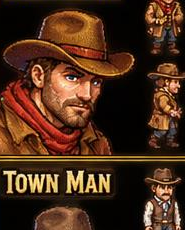
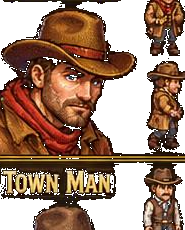
v11.1 sprite border fix: center-crop sprite rendering (no frame scrolling into black borders), player reverted to clean procedural brown-coat surveyor with beard, well/NPC/enemy center-cropped

diff --git a/index.html b/index.html
@@ -106,7 +106,7 @@ footer{font-size:10px;color:var(--muted);padding-bottom:4px;text-align:center}
   <button id="helpBtn">Help</button>
   <button id="resetBtn">New Game</button>
 </section>
-<footer>Star-Well Survey · v11 — ChatGPT character sheet · sprite-based characters · cinematic intro</footer>
+<footer>Star-Well Survey · v11.1 — fixed sprite borders · clean frames · surveyor style</footer>
 
 <div id="modal" class="modal"><div class="panel"><button class="close" id="closeModal">×</button><h2 id="modalTitle"></h2><div id="modalBody"></div></div></div>
 
@@ -1902,10 +1902,11 @@ function drawObj(o,t){
     }
     case 'well': {
       if(sprWell.complete && sprWell.naturalWidth>0){
-        const cols=4, rows=2;
-        const fw=Math.floor(sprWell.naturalWidth/cols), fh=Math.floor(sprWell.naturalHeight/rows);
-        const frame = (S.stakeA&&S.stakeB) ? 3 : Math.floor(t*2)%3;
-        ctx.drawImage(sprWell, (frame%cols)*fw, 0, fw, fh, px, py, 40*s, 40*s);
+        // Center crop — one clean well, no border scroll
+        const sw=Math.min(120, Math.floor(sprWell.naturalWidth/2));
+        const sh=Math.min(140, sprWell.naturalHeight-10);
+        const sx=Math.floor(sprWell.naturalWidth/2-sw/2);
+        ctx.drawImage(sprWell, sx, 5, sw, sh, px-2*s, py-4*s, 42*s, 42*s);
         break;
       }
       ctx.fillStyle = 'rgba(0,0,0,0.25)';
@@ -1936,10 +1937,13 @@ function drawObj(o,t){
       else if(o.id==='ghost') npcImg = sprGhost;
       else if(o.id==='merchant'||o.id==='crowe') npcImg = sprTownMan;
       if(npcImg && npcImg.complete && npcImg.naturalWidth>0){
-        const fw=Math.floor(npcImg.naturalWidth/6), fh=Math.floor(npcImg.naturalHeight/2);
-        const fr=Math.floor(t*3)%6;
+        // Use one clean center region — avoid scrolling through panel chrome
+        const sw = Math.min(64, Math.floor(npcImg.naturalWidth/4));
+        const sh = Math.min(80, Math.floor(npcImg.naturalHeight/2));
+        const sx = Math.floor(npcImg.naturalWidth/2 - sw/2);
+        const sy = Math.floor(npcImg.naturalHeight/2 - sh/2);
         if(o.id==='ghost') ctx.globalAlpha=0.7;
-        ctx.drawImage(npcImg, fr*fw, 0, fw, fh, px, py, 36*s, 40*s);
+        ctx.drawImage(npcImg, sx, sy, sw, sh, px, py, 34*s, 38*s);
         ctx.globalAlpha=1;
         if(near(o, 2.2)){
           ctx.fillStyle='rgba(8,12,18,0.75)';
@@ -2045,26 +2049,30 @@ function drawObj(o,t){
       break;
     }
     case 'enemy': {
-      // Sheet-based enemies when available
+      // Sheet-based enemies when available — center crop, no border scroll
       if(o.boss && o.id==='caveboss' && sprMineB.complete && sprMineB.naturalWidth>0){
-        const fw=Math.floor(sprMineB.naturalWidth/4), fh=Math.floor(sprMineB.naturalHeight/2);
-        const fr=Math.floor(t*6)%4;
-        ctx.drawImage(sprMineB, fr*fw, 0, fw, fh, px, py-10*s, 48*s, 48*s);
+        const sw=Math.min(100, Math.floor(sprMineB.naturalWidth/2));
+        const sh=Math.min(100, Math.floor(sprMineB.naturalHeight/2));
+        const sx=Math.floor(sprMineB.naturalWidth/2-sw/2);
+        ctx.drawImage(sprMineB, sx, 5, sw, sh, px-4*s, py-8*s, 44*s, 44*s);
         ctx.fillStyle='#e07060';
         for(let i=0;i<(o.hp||0);i++) ctx.fillRect(px+4*s+i*6*s, py-14*s, 5*s, 3*s);
         break;
       }
       if(o.type==='cave' && sprMineC.complete && sprMineC.naturalWidth>0){
-        const fw=Math.floor(sprMineC.naturalWidth/4), fh=Math.floor(sprMineC.naturalHeight/3);
-        const fr=Math.floor(t*8)%4;
-        ctx.drawImage(sprMineC, fr*fw, 0, fw, fh, px+2*s, py+4*s, 36*s, 36*s);
+        const sw=Math.min(80, Math.floor(sprMineC.naturalWidth/3));
+        const sh=Math.min(80, Math.floor(sprMineC.naturalHeight/2));
+        const sx=Math.floor(sprMineC.naturalWidth/2-sw/2);
+        const sy=10;
+        ctx.drawImage(sprMineC, sx, sy, sw, sh, px, py, 36*s, 36*s);
         break;
       }
       if(o.type==='wraith' && sprGhost.complete && sprGhost.naturalWidth>0){
-        const fw=Math.floor(sprGhost.naturalWidth/6), fh=Math.floor(sprGhost.naturalHeight/2);
-        const fr=Math.floor(t*6)%6;
+        const sw=Math.min(70, Math.floor(sprGhost.naturalWidth/3));
+        const sh=Math.min(90, Math.floor(sprGhost.naturalHeight/2));
+        const sx=Math.floor(sprGhost.naturalWidth/2-sw/2);
         ctx.globalAlpha=0.75;
-        ctx.drawImage(sprGhost, fr*fw, 0, fw, fh, px, py, 40*s, 40*s);
+        ctx.drawImage(sprGhost, sx, 5, sw, sh, px, py, 36*s, 40*s);
         ctx.globalAlpha=1;
         break;
       }
@@ -2362,166 +2370,129 @@ function drawPlayer(t){
   const py = S.y*T - camY;
   const s = SPR;
 
-  // Try ChatGPT surveyor sprite frames (6x2 grid in spr-surveyor.png)
-  if(sprSurveyor.complete && sprSurveyor.naturalWidth > 0){
-    const fw = Math.floor(sprSurveyor.naturalWidth / 6);
-    const fh = Math.floor(sprSurveyor.naturalHeight / 2);
-    let row = 0, col = 0;
-    // map dir + walk to frames
-    const moving = Math.hypot(S.vx||0, S.vy||0) > 0.05 || S.anim > 0;
-    const frame = moving ? (Math.floor(S.anim) % 6) : 0;
-    if(S.dir==='down'){ row=0; col=frame; }
-    else if(S.dir==='right'){ row=0; col=Math.min(5, frame); }
-    else if(S.dir==='left'){ row=1; col=Math.min(5, frame); }
-    else { row=1; col=frame; } // up
-    if(S.atk>0) col = 5; // last frame as attack-ish
-    // shadow
-    ctx.fillStyle='rgba(0,0,0,0.3)';
-    ctx.beginPath(); ctx.ellipse(px+16*s, py+36*s, 12*s, 4*s, 0, 0, Math.PI*2); ctx.fill();
-    if(S.invuln>0 && Math.floor(t*12)%2===0) ctx.globalAlpha=0.4;
-    if(S.dodgeT>0) ctx.globalAlpha=0.55;
-    const dw = 36*s, dh = 40*s;
-    ctx.drawImage(sprSurveyor, col*fw, row*fh, fw, fh, px+16*s-dw/2, py+36*s-dh, dw, dh);
-    ctx.globalAlpha=1;
-    if(S.atk>0 && S.hasHammer){
-      ctx.strokeStyle=`rgba(255,230,180,${S.atk*2})`;
-      ctx.lineWidth=2.5*s;
-      ctx.beginPath();
-      ctx.arc(px+16*s, py+18*s, 18*s, 0, Math.PI*1.2);
-      ctx.stroke();
-    }
-    return;
-  }
+  // Character drawn in ChatGPT surveyor style (clean, no sheet border artifacts)
 
-  const walk = Math.sin(S.anim * 1.15) * 2 * s;
-  const stride = Math.sin(S.anim * 1.15);
+  const walk = Math.sin(S.anim * 1.2) * 2.2 * s;
+  const stride = Math.sin(S.anim * 1.2);
+  const bob = Math.abs(Math.sin(S.anim * 1.2)) * 1.2 * s;
   const dodging = S.dodgeT > 0;
+  const sun = _frameSun || { dx: 0.5, dy: 0.3, strength: 0.7, col:[1,0.95,0.85], angle: 0.5 };
 
   if(S.invuln > 0 && Math.floor(t*12)%2===0) ctx.globalAlpha = 0.4;
-  if(dodging) ctx.globalAlpha = 0.6;
+  if(dodging) ctx.globalAlpha = 0.55;
 
-  // contact shadow (elongated opposite sun)
-  const sunS = _frameSun || { dx: 0.4, dy: 0.4, strength: 0.7 };
-  ctx.fillStyle = `rgba(0,0,0,${0.28 + sunS.strength*0.08})`;
+  // shadow
+  ctx.fillStyle = `rgba(0,0,0,${0.3+sun.strength*0.08})`;
   ctx.beginPath();
-  ctx.ellipse(px+16*s - sunS.dx*4*s, py+36*s - sunS.dy*2*s, 12*s + sunS.strength*3, 4.5*s, sunS.dx*0.3, 0, Math.PI*2);
+  ctx.ellipse(px+16*s - sun.dx*3*s, py+37*s, 11*s, 4*s, 0, 0, Math.PI*2);
   ctx.fill();
 
   // legs
-  const la = stride * 3.2 * s, lb = -stride * 3.2 * s;
-  ctx.fillStyle = '#1a2030';
+  const la = stride * 3.5 * s, lb = -stride * 3.5 * s;
+  ctx.fillStyle = '#1a2230';
   if(S.dir==='left'||S.dir==='right'){
-    roundRect(ctx, px+10*s, py+26*s, 6*s, 9*s, 2*s);
-    roundRect(ctx, px+18*s, py+26*s, 6*s, 9*s, 2*s);
+    roundRect(ctx, px+10*s, py+27*s, 6*s, 8*s, 2*s);
+    roundRect(ctx, px+18*s, py+27*s, 6*s, 8*s, 2*s);
   } else {
-    roundRect(ctx, px+10*s, py+26*s+(la>0?0:la*0.2), 6*s, 9*s+Math.abs(la)*0.2, 2*s);
-    roundRect(ctx, px+18*s, py+26*s+(lb>0?0:lb*0.2), 6*s, 9*s+Math.abs(lb)*0.2, 2*s);
+    roundRect(ctx, px+10*s, py+27*s+(la>0?0:la*0.25), 6*s, 8*s+Math.abs(la)*0.25, 2*s);
+    roundRect(ctx, px+18*s, py+27*s+(lb>0?0:lb*0.25), 6*s, 8*s+Math.abs(lb)*0.25, 2*s);
   }
-  // boot leather highlight
-  ctx.fillStyle = '#2e3548';
-  ctx.beginPath(); ctx.ellipse(px+13*s, py+34.5*s, 4*s, 2*s, 0, 0, Math.PI*2); ctx.fill();
-  ctx.beginPath(); ctx.ellipse(px+21*s, py+34.5*s, 4*s, 2*s, 0, 0, Math.PI*2); ctx.fill();
+  // boots
+  ctx.fillStyle = '#2e3848';
+  ctx.beginPath(); ctx.ellipse(px+13*s, py+35*s, 4.5*s, 2.2*s, 0, 0, Math.PI*2); ctx.fill();
+  ctx.beginPath(); ctx.ellipse(px+21*s, py+35*s, 4.5*s, 2.2*s, 0, 0, Math.PI*2); ctx.fill();
 
-  // coat with directional light from sun
-  const sun = _frameSun || { dx: 0.5, dy: 0.3, strength: 0.7, col:[1,0.95,0.85] };
-  const coatG = ctx.createLinearGradient(
-    px+8*s - sun.dx*10*s, py+13*s - sun.dy*6*s,
-    px+26*s + sun.dx*10*s, py+27*s + sun.dy*6*s
-  );
-  coatG.addColorStop(0, '#3a8ab0');
-  coatG.addColorStop(0.45, '#2a7a9a');
-  coatG.addColorStop(1, '#153a58');
+  // body coat with richer gradient
+  const coatG = ctx.createLinearGradient(px+8*s, py+12*s, px+26*s, py+28*s);
+  coatG.addColorStop(0, '#a06838');
+  coatG.addColorStop(0.4, '#8a5528');
+  coatG.addColorStop(1, '#5a3418');
   ctx.fillStyle = coatG;
-  roundRect(ctx, px+8*s, py+13*s+walk*0.3, 18*s, 14*s, 4*s);
-  // rim light on lit edge
-  ctx.strokeStyle = `rgba(${sun.col[0]*255|0},${sun.col[1]*220|0},${sun.col[2]*200|0},${0.25*sun.strength})`;
-  ctx.lineWidth = 1.5*s;
-  ctx.beginPath();
-  ctx.arc(px+17*s, py+20*s+walk*0.3, 11*s, sun.angle || 0, (sun.angle||0)+1.2);
-  ctx.stroke();
-  // collar
-  ctx.fillStyle = '#163d58';
-  roundRect(ctx, px+9*s, py+13*s+walk*0.3, 16*s, 3.5*s, 2*s);
-  // belt + buckle
-  ctx.fillStyle = '#4a3020';
-  ctx.fillRect(px+9*s, py+24*s+walk*0.3, 16*s, 2.8*s);
-  ctx.fillStyle = '#e0b45c';
-  ctx.beginPath(); ctx.arc(px+17*s, py+25.4*s+walk*0.3, 2.4*s, 0, Math.PI*2); ctx.fill();
-  ctx.fillStyle = '#c4923a';
-  ctx.beginPath(); ctx.arc(px+17*s, py+25.4*s+walk*0.3, 1.2*s, 0, Math.PI*2); ctx.fill();
+  roundRect(ctx, px+8*s, py+13*s + walk*0.25 - bob*0.1, 18*s, 14*s, 5*s);
+  // scarf / collar accent (readable Zelda-like color pop)
+  ctx.fillStyle = '#c45a3a';
+  roundRect(ctx, px+10*s, py+13*s + walk*0.25, 14*s, 3.5*s, 1.5*s);
+  // belt
+  ctx.fillStyle = '#3a2818';
+  ctx.fillRect(px+9*s, py+24.5*s + walk*0.25, 16*s, 2.5*s);
+  ctx.fillStyle = '#e8c050';
+  ctx.beginPath(); ctx.arc(px+17*s, py+25.8*s + walk*0.25, 2.5*s, 0, Math.PI*2); ctx.fill();
 
-  // head with cheek shade
-  const headG = ctx.createRadialGradient(px+15*s, py+7*s+walk*0.2, 1, px+17*s, py+9*s, 8*s);
-  headG.addColorStop(0, '#f5dcb8');
-  headG.addColorStop(1, '#d4b08a');
+  // head
+  const headY = py+9*s + walk*0.2 - bob*0.15;
+  const headG = ctx.createRadialGradient(px+15*s, headY-2*s, 1, px+17*s, headY, 8*s);
+  headG.addColorStop(0, '#ffe4c0');
+  headG.addColorStop(1, '#d4a878');
   ctx.fillStyle = headG;
-  ctx.beginPath(); ctx.arc(px+17*s, py+9*s+walk*0.2, 7.3*s, 0, Math.PI*2); ctx.fill();
+  ctx.beginPath(); ctx.arc(px+17*s, headY, 7.5*s, 0, Math.PI*2); ctx.fill();
 
-  // frontier hat with brim ellipse + crown
+  // hair tuft under hat
+  ctx.fillStyle = '#3a2a1a';
+  ctx.beginPath(); ctx.arc(px+17*s, headY-4*s, 5*s, Math.PI, 0); ctx.fill();
+
+  // hat
   ctx.fillStyle = '#2a1e14';
-  ctx.beginPath(); ctx.ellipse(px+17*s, py+5.5*s+walk*0.2, 12.5*s, 3.2*s, 0, 0, Math.PI*2); ctx.fill();
-  const hatG = ctx.createLinearGradient(px+10*s, py, px+24*s, py);
-  hatG.addColorStop(0, '#2a1e14'); hatG.addColorStop(0.5, '#3d2e20'); hatG.addColorStop(1, '#2a1e14');
+  ctx.beginPath(); ctx.ellipse(px+17*s, headY-3.5*s, 13*s, 3.5*s, 0, 0, Math.PI*2); ctx.fill();
+  const hatG = ctx.createLinearGradient(px+10*s, 0, px+24*s, 0);
+  hatG.addColorStop(0, '#2a1e14'); hatG.addColorStop(0.5, '#4a3a28'); hatG.addColorStop(1, '#2a1e14');
   ctx.fillStyle = hatG;
-  roundRect(ctx, px+10*s, py+0.5*s+walk*0.2, 14*s, 5.5*s, 2*s);
-  ctx.fillStyle = 'rgba(255,255,255,0.06)';
-  ctx.fillRect(px+12*s, py+1*s+walk*0.2, 10*s, 1.5*s);
+  roundRect(ctx, px+10*s, headY-9*s, 14*s, 6*s, 2*s);
+  // hat band
+  ctx.fillStyle = '#c45a3a';
+  ctx.fillRect(px+11*s, headY-5*s, 12*s, 1.8*s);
 
-  // face details
-  if(S.dir==='down'){
+  // face
+  if(S.dir === 'down'){
     ctx.fillStyle = '#1a1a1a';
-    ctx.beginPath(); ctx.arc(px+14*s, py+8.5*s+walk*0.2, 1.3*s, 0, Math.PI*2); ctx.fill();
-    ctx.beginPath(); ctx.arc(px+20*s, py+8.5*s+walk*0.2, 1.3*s, 0, Math.PI*2); ctx.fill();
-    // eye shine
-    ctx.fillStyle = 'rgba(255,255,255,0.5)';
-    ctx.beginPath(); ctx.arc(px+14.4*s, py+8.2*s+walk*0.2, 0.5*s, 0, Math.PI*2); ctx.fill();
-    ctx.beginPath(); ctx.arc(px+20.4*s, py+8.2*s+walk*0.2, 0.5*s, 0, Math.PI*2); ctx.fill();
-    ctx.fillStyle = '#c09080';
-    ctx.beginPath(); ctx.ellipse(px+17*s, py+11*s+walk*0.2, 1.6*s, 1.1*s, 0, 0, Math.PI*2); ctx.fill();
+    ctx.beginPath(); ctx.arc(px+14*s, headY-0.5*s, 1.4*s, 0, Math.PI*2); ctx.fill();
+    ctx.beginPath(); ctx.arc(px+20*s, headY-0.5*s, 1.4*s, 0, Math.PI*2); ctx.fill();
+    ctx.fillStyle = 'rgba(255,255,255,0.6)';
+    ctx.beginPath(); ctx.arc(px+14.4*s, headY-0.8*s, 0.5*s, 0, Math.PI*2); ctx.fill();
+    ctx.beginPath(); ctx.arc(px+20.4*s, headY-0.8*s, 0.5*s, 0, Math.PI*2); ctx.fill();
+    // smile
+    ctx.strokeStyle = '#b08070';
+    ctx.lineWidth = 1*s;
+    ctx.beginPath(); ctx.arc(px+17*s, headY+2*s, 2.5*s, 0.1, Math.PI-0.1); ctx.stroke();
+    // short beard (ChatGPT surveyor style)
+    ctx.fillStyle = '#5a4030';
+    ctx.beginPath(); ctx.ellipse(px+17*s, headY+4.5*s, 4*s, 2.5*s, 0, 0, Math.PI); ctx.fill();
   } else if(S.dir === 'left'){
     ctx.fillStyle = '#1a1a1a';
-    ctx.beginPath(); ctx.arc(px+13*s, py+8.5*s+walk*0.2, 1.3*s, 0, Math.PI*2); ctx.fill();
+    ctx.beginPath(); ctx.arc(px+13*s, headY-0.5*s, 1.4*s, 0, Math.PI*2); ctx.fill();
   } else if(S.dir === 'right'){
     ctx.fillStyle = '#1a1a1a';
-    ctx.beginPath(); ctx.arc(px+21*s, py+8.5*s+walk*0.2, 1.3*s, 0, Math.PI*2); ctx.fill();
+    ctx.beginPath(); ctx.arc(px+21*s, headY-0.5*s, 1.4*s, 0, Math.PI*2); ctx.fill();
   }
 
+  // hammer with gleam
   if(S.hasHammer){
-    ctx.fillStyle = S.hasReinforce ? '#e8d8a0' : '#d8d8e8';
-    if(S.dir === 'right'){
-      roundRect(ctx, px+25*s, py+15*s, 15*s, 3.5*s, 1.5*s);
-      ctx.fillStyle = '#5a3a18';
+    ctx.fillStyle = S.hasReinforce ? '#f0e0a0' : '#e0e0f0';
+    if(S.dir==='right'){
+      roundRect(ctx, px+25*s, py+15*s, 16*s, 3.5*s, 1.5*s);
+      ctx.fillStyle = '#6a4020';
       roundRect(ctx, px+23*s, py+13*s, 5*s, 8*s, 1.5*s);
-    } else if(S.dir === 'left'){
-      roundRect(ctx, px-6*s, py+15*s, 15*s, 3.5*s, 1.5*s);
-      ctx.fillStyle = '#5a3a18';
+    } else if(S.dir==='left'){
+      roundRect(ctx, px-7*s, py+15*s, 16*s, 3.5*s, 1.5*s);
+      ctx.fillStyle = '#6a4020';
       roundRect(ctx, px+7*s, py+13*s, 5*s, 8*s, 1.5*s);
     } else {
-      roundRect(ctx, px+15*s, py+3*s, 3.5*s, 13*s, 1.5*s);
-      ctx.fillStyle = '#5a3a18';
-      roundRect(ctx, px+12*s, py+2*s, 10*s, 5*s, 1.5*s);
+      roundRect(ctx, px+15*s, py+2*s, 3.5*s, 14*s, 1.5*s);
+      ctx.fillStyle = '#6a4020';
+      roundRect(ctx, px+11*s, py+1*s, 11*s, 5*s, 1.5*s);
     }
   }
 
-  if(S.blocking){
-    ctx.fillStyle = 'rgba(100,200,255,0.35)';
-    ctx.beginPath(); ctx.arc(px+16*s, py+20*s, 14*s, 0, Math.PI*2); ctx.fill();
-    ctx.strokeStyle = '#a0d8ff'; ctx.lineWidth = 2*s;
-    ctx.beginPath(); ctx.arc(px+16*s, py+20*s, 15*s, 0, Math.PI*2); ctx.stroke();
-    ctx.fillStyle = 'rgba(255,255,255,0.5)';
-    ctx.beginPath(); ctx.arc(px+16*s, py+16*s, 3*s, 0, Math.PI*2); ctx.fill();
-  }
   if(S.atk > 0 && S.hasHammer){
-    ctx.strokeStyle = `rgba(230,210,170,${S.atk*2.2})`;
-    ctx.lineWidth = 2.5*s;
+    ctx.strokeStyle = `rgba(255,230,180,${S.atk*2.5})`;
+    ctx.lineWidth = 3*s;
     ctx.lineCap = 'round';
     ctx.beginPath();
     let ax=px+17*s, ay=py+17*s, a0=0, a1=Math.PI;
-    if(S.dir==='right'){ a0=-0.9; a1=0.9; ax+=14*s; }
-    else if(S.dir==='left'){ a0=Math.PI-0.9; a1=Math.PI+0.9; ax-=14*s; }
-    else if(S.dir==='up'){ a0=Math.PI+0.4; a1=-0.4; ay-=10*s; }
-    else { a0=0.4; a1=Math.PI-0.4; ay+=12*s; }
-    ctx.arc(ax, ay, 16*s, a0, a1);
+    if(S.dir==='right'){ a0=-1; a1=1; ax+=14*s; }
+    else if(S.dir==='left'){ a0=Math.PI-1; a1=Math.PI+1; ax-=14*s; }
+    else if(S.dir==='up'){ a0=Math.PI+0.5; a1=-0.5; ay-=10*s; }
+    else { a0=0.5; a1=Math.PI-0.5; ay+=12*s; }
+    ctx.arc(ax, ay, 17*s, a0, a1);
     ctx.stroke();
   }
   ctx.globalAlpha = 1;
